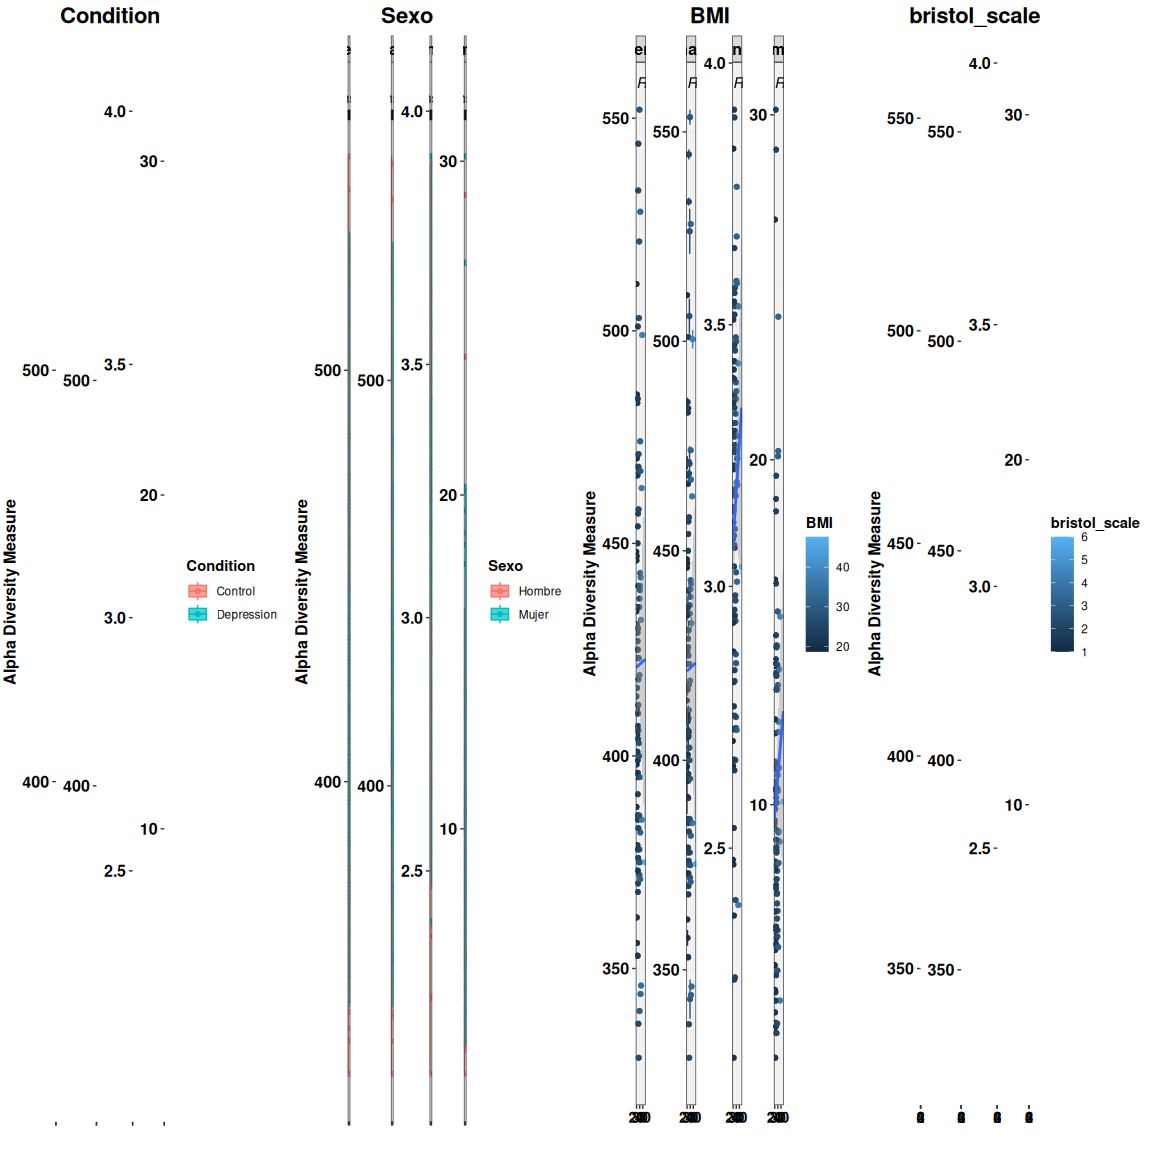
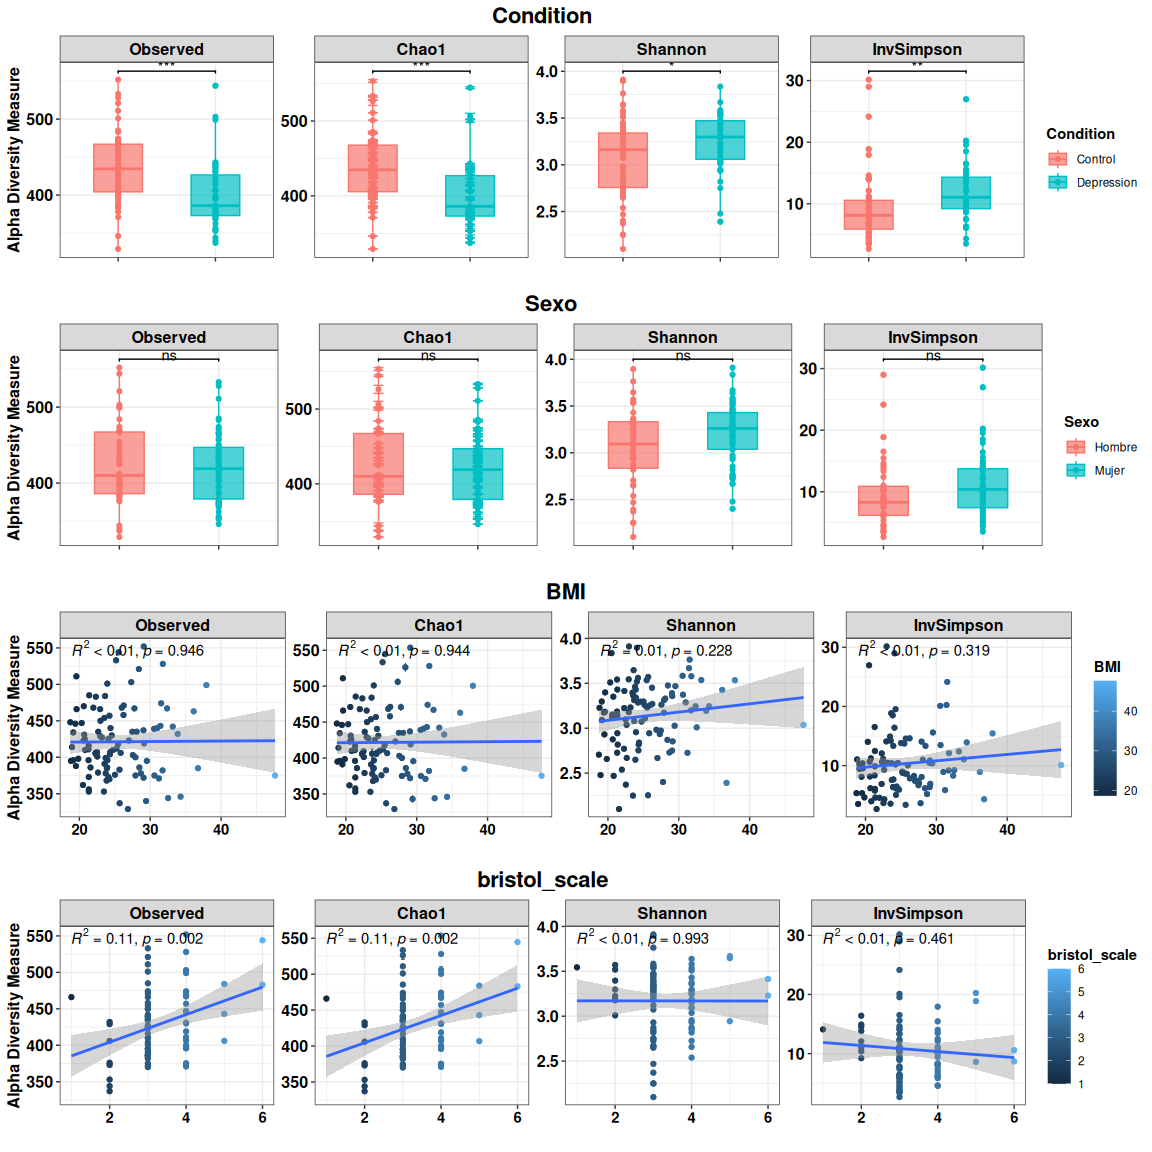
new readme

diff --git a/README.md b/README.md
@@ -161,12 +161,6 @@ alphadif <- testDiversityDifferences(divtab, alpha_indices,
                                      outdir = outdir, name = "AlphaDiv_test")
 
 alphadif %>% kableExtra::kable()
-#> Warning: 'xfun::attr()' is deprecated.
-#> Use 'xfun::attr2()' instead.
-#> See help("Deprecated")
-#> Warning: 'xfun::attr()' is deprecated.
-#> Use 'xfun::attr2()' instead.
-#> See help("Deprecated")
 ```
 
 | variable | groups | comparison | anova_F | anova_p | t_test | wilcox_test | shapiro_normality_test | bartlett_test | levene_test | t_corrected | wilcox_corrected |
@@ -244,7 +238,7 @@ divplots <- getAlphaDiversity(phobj,
                               correct_pvalues = T, correct_pvalues_indices = T,
                               name = "alphaplots1", w = 10, h = 4)
 
-cowplot::plot_grid(plotlist = divplots, ncol = 4)
+cowplot::plot_grid(plotlist = divplots, nrow = 4)
 ```
 
 <img src="man/figures/README-alpha6-1.png" width="100%" />
